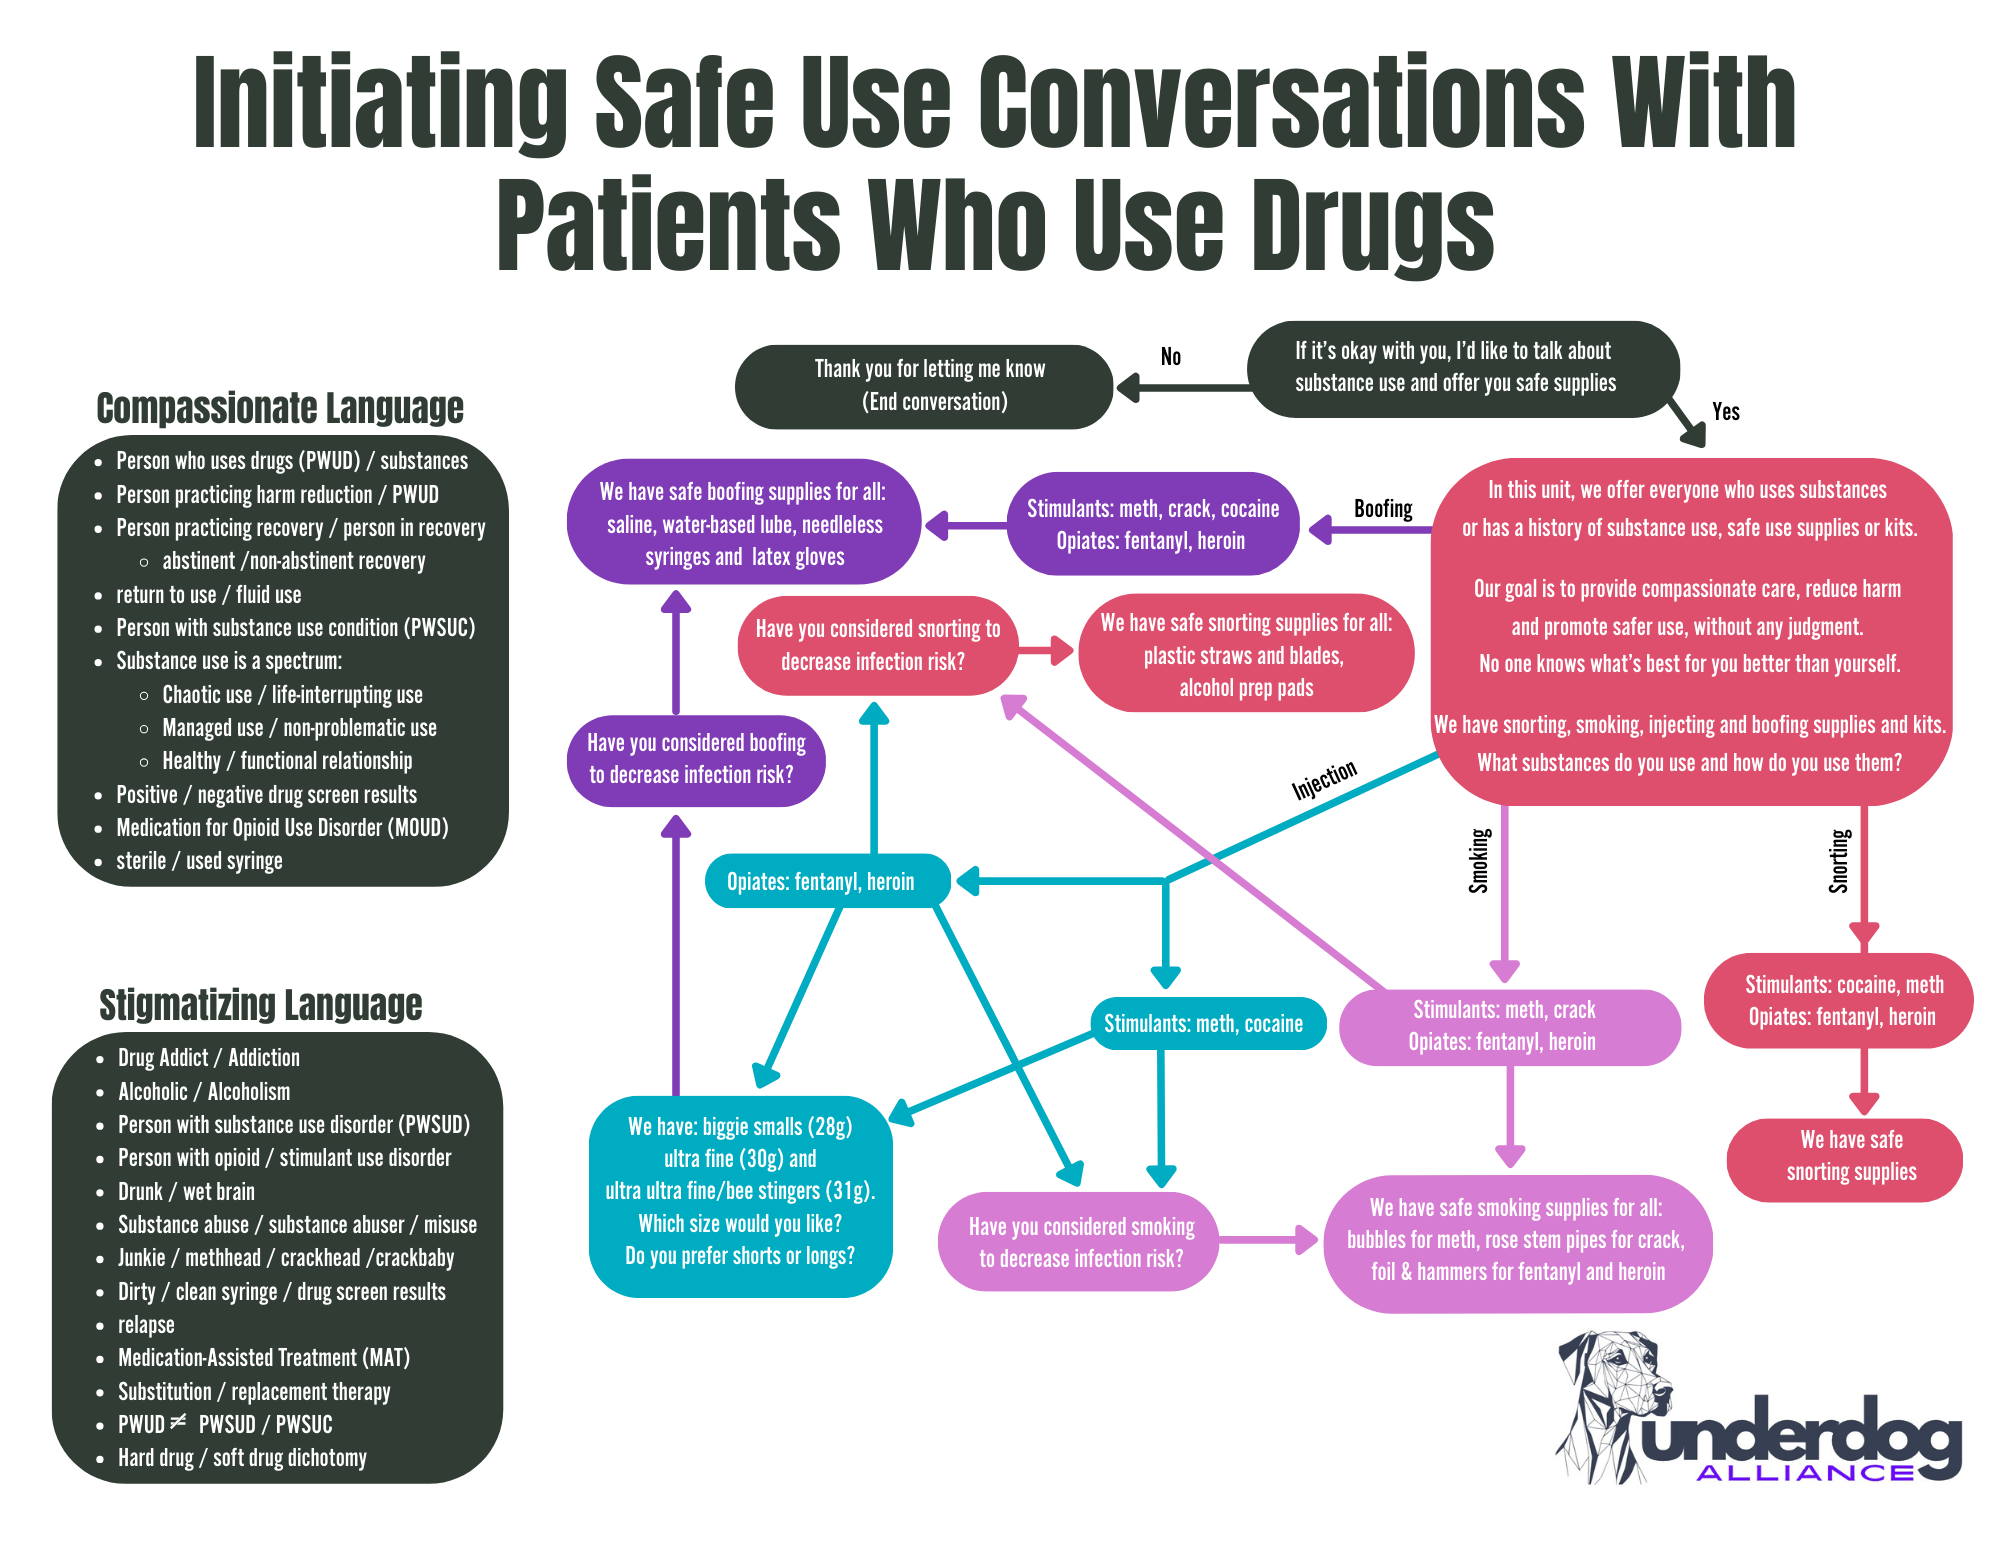
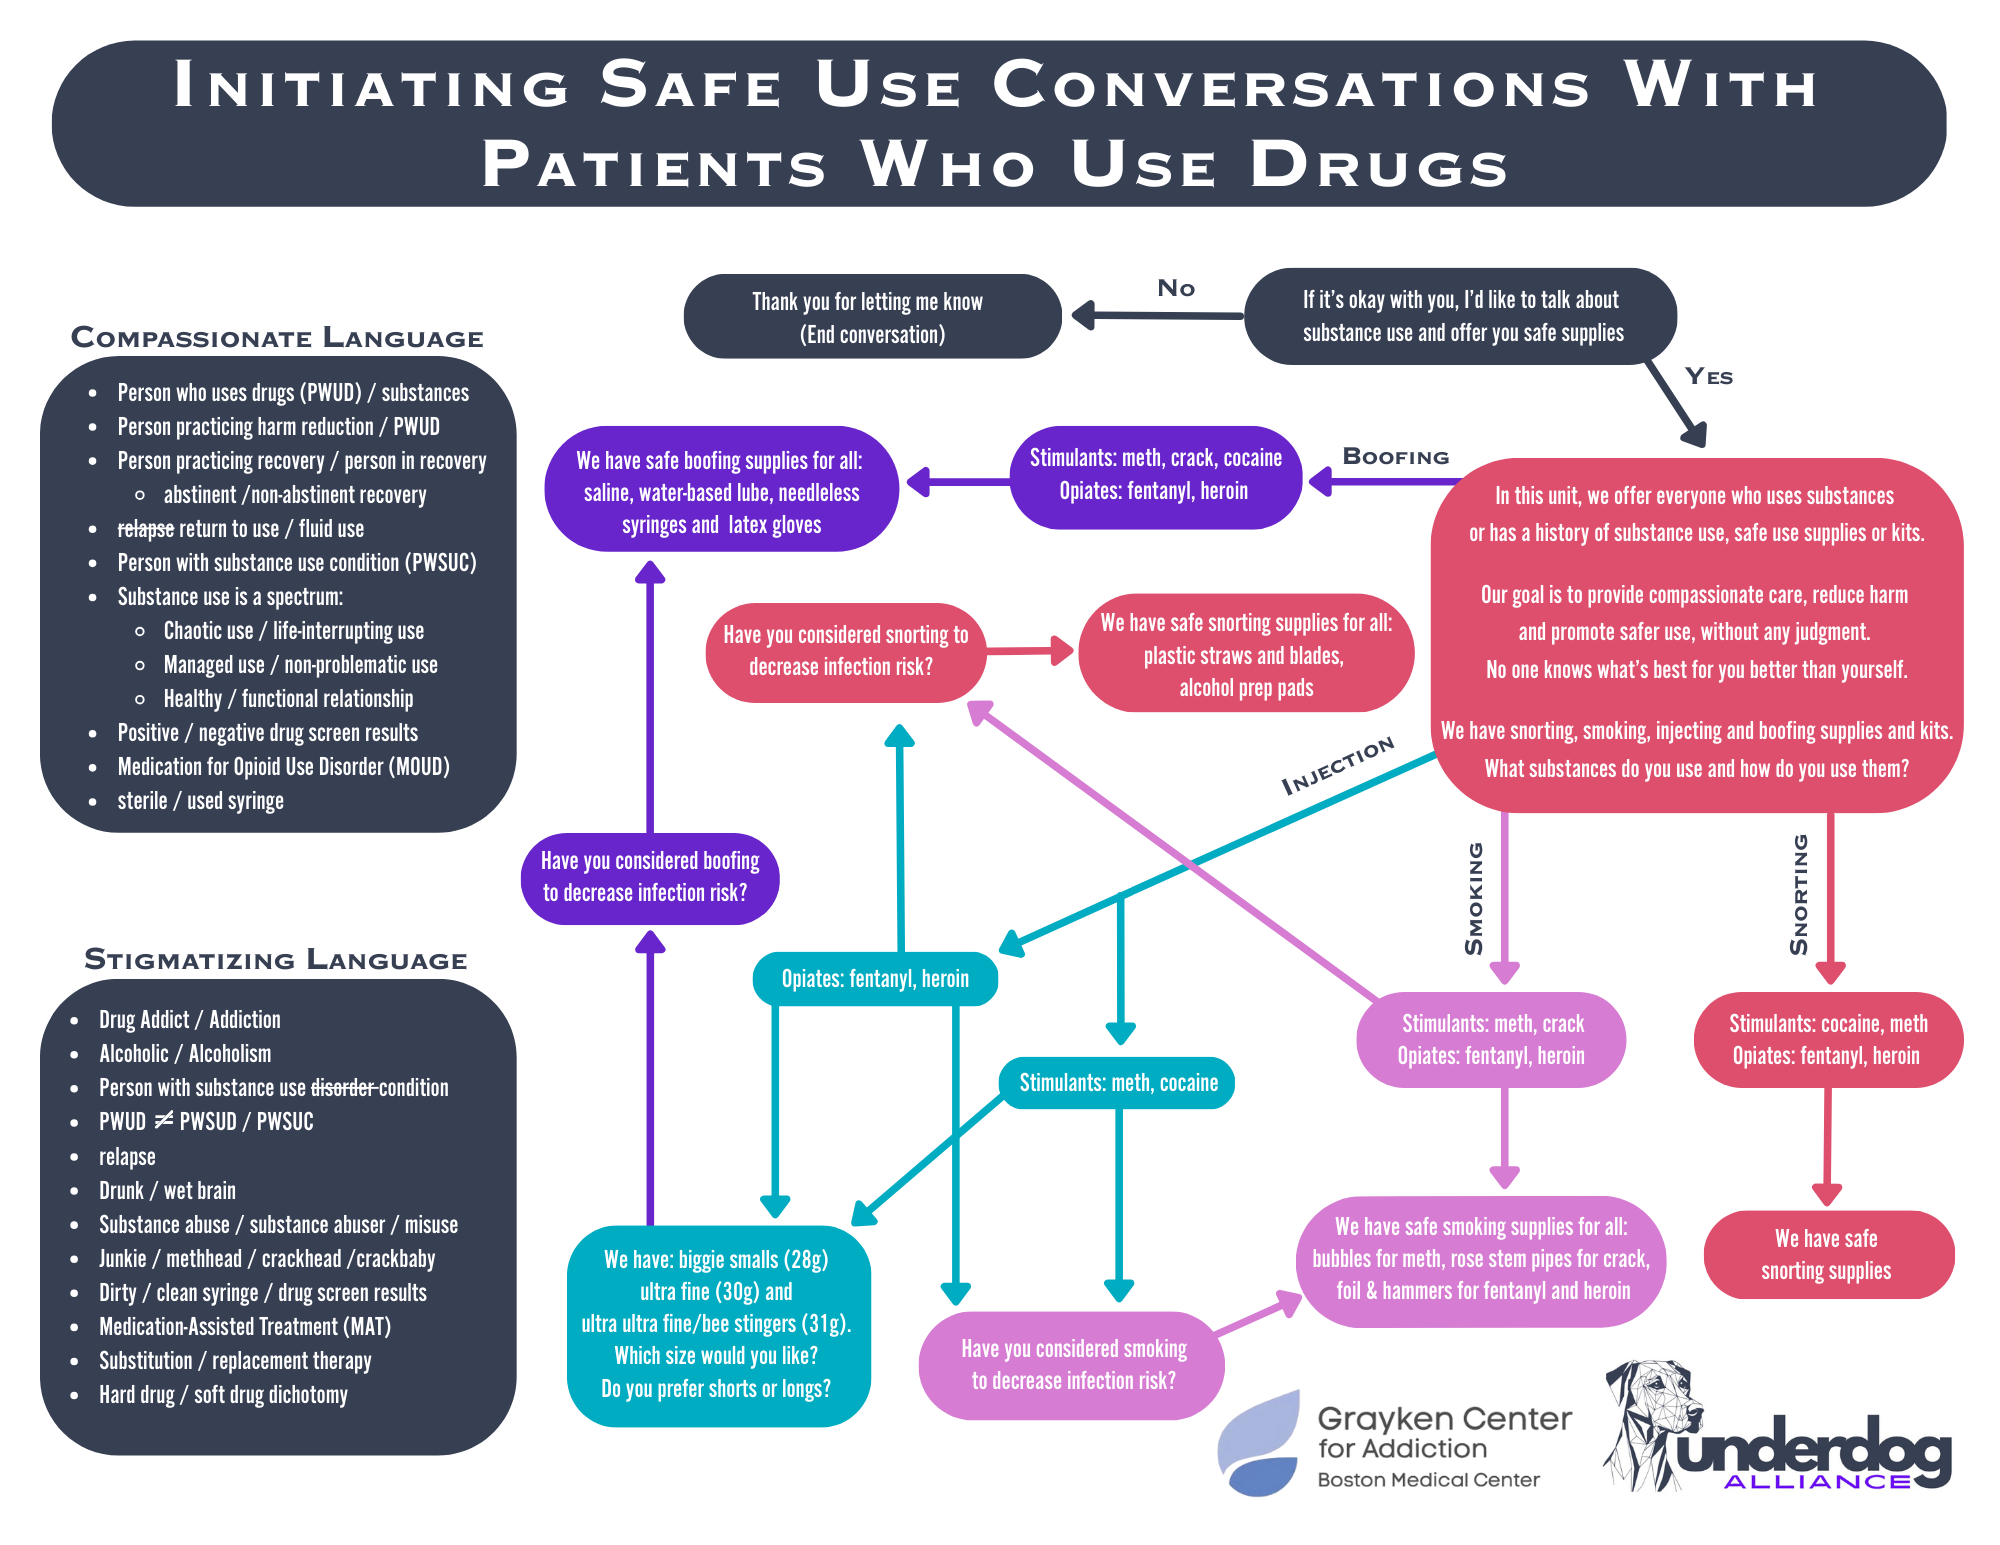
add forthcoming publication, consulting services update, and image example

diff --git a/content/speaking.md b/content/speaking.md
@@ -78,7 +78,21 @@ content_html = """
         Member Graphic Novel Collaboration.&rdquo;</em> (with Otañez)</li>
       </ul>
 
-      <img src="/images/speaking/Integrating-Harm-Reduction.png" alt="Harm Reduction is Healthcare: Decreasing Risk and Stigma with People Who Use Drugs" style="width:100%;height:auto;margin:1.5rem 0;">
+      <!--
+      <div style="display:flex; align-items:flex-start; margin:1.5rem 0;">
+        <img src="/images/speaking/Integrating-Harm-Reduction.png"
+             alt="Harm Reduction is Healthcare: Decreasing Risk and Stigma with People Who Use Drugs"
+             style="width:50%; padding-right:10px; display:block;">
+        <div style="width:50%; align-self:stretch; position:relative; overflow:hidden;">
+          <img src="/images/speaking/Heather-Edney.png"
+               alt="Harm Reduction is Healthcare: Decreasing Risk and Stigma with People Who Use Drugs"
+               style="position:absolute; top:0; left:0; width:100%; height:100%; object-fit:cover; object-position:top; display:block;">
+        </div>
+      </div>
+      -->
+
+      <!-- Use the line below to add an image anywhere inline, replace with your new file name -->
+      <img src="/images/speaking/Integrating-Harm-Reduction.png" alt="Harm Reduction is Healthcare: Decreasing Risk and Stigma with People Who Use Drugs" style="width:100%; height:auto; margin:1.5rem 0;">
 
       <ul>
         <li><strong>American Society of Addiction Medicine &middot; Annual

diff --git a/content/publications.md b/content/publications.md
@@ -75,6 +75,15 @@ content_html = """
           of Colorado jail policies for medication for opioid use disorder.
           <em>Under review.</em>
         </li>
+
+        <li>
+          LeMasters, K., Craft, B., Macht, A., Clifton, M., Godinez,
+          B., Henderson, J., McConnellogue, M., Moffett, T., Nagy, M.,
+          Vickers, R., Walker, T., Wise, J. Local Criminal Legal
+          Involvement, Mental Health & Substance Use: A Photovoice Project
+          with a Community Advisory Board. <em>Submitted.</em>
+        </li>
+
       </ol>"""
 [[extra.content_blocks]]
 block = "newsletter"